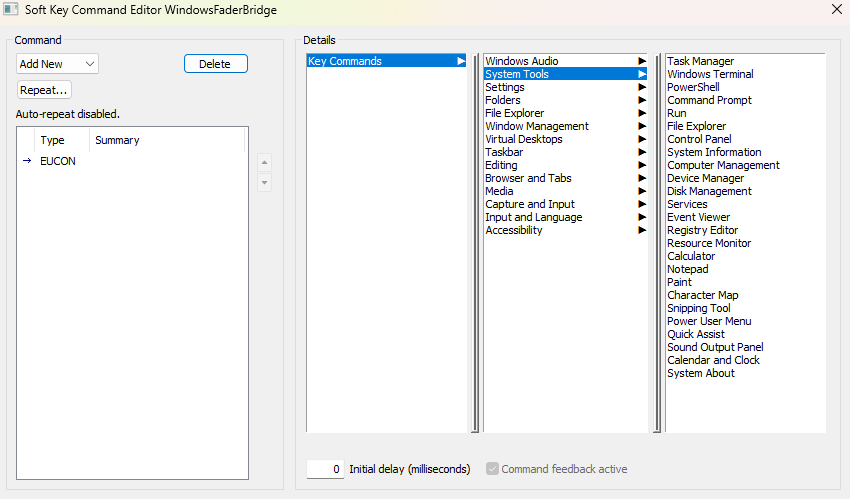
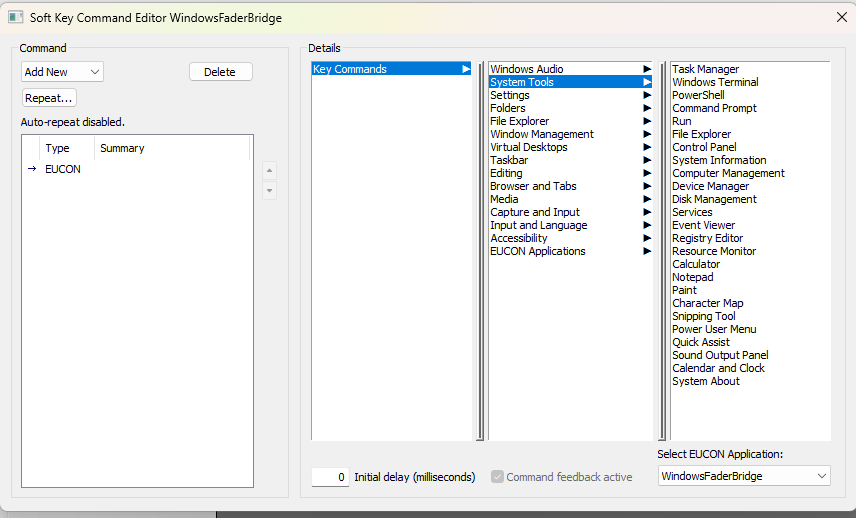
docs: add trilingual landing page and current screenshots

Changed region(s): [[0.3365, 0.0601, 0.9788, 0.9319], [0.0, 0.0, 1.0, 1.0], [0.2141, 0.1202, 0.3059, 0.1503]]

diff --git a/README.md b/README.md
@@ -2,26 +2,45 @@
 
 # Windows Fader Bridge for EUCON
 
-Control the Windows audio mixer from an Avid EUCON surface or Avid Control.
+<p align="center"><a href="#简体中文">简体中文</a> ・ <a href="#english">English</a> ・ <a href="#日本語">日本語</a></p>
 
-**[Download v1.0.0](https://github.com/lindelea/windows-fader-bridge-eucon/releases/latest)**
+<p align="center"><strong><a href="https://github.com/lindelea/windows-fader-bridge-eucon/releases/latest">下载 / Download / ダウンロード v1.0.0</a></strong></p>
 
-No build tools are required. Download the installer and start mixing.
+![Windows Fader Bridge for EUCON overview](docs/images/overview.png)
 
-[简体中文使用手册](docs/USER_GUIDE.zh-CN.md) ・ [English User Guide](docs/USER_GUIDE.en.md) ・ [日本語ユーザーガイド](docs/USER_GUIDE.ja.md)
+## 简体中文
 
-![Application overview](docs/images/overview.png)
+使用 Avid S3、Avid Control 或其他兼容 EUCON 控制台，直接控制 Windows 主音量、输入设备以及每个正在发声的应用。
 
-Use physical faders, encoders and keys for Windows output devices, input devices and individual applications. Volume, pan, mute, solo, channel selection, meters, banking and media information are synchronized in real time.
+- 推子、声像、静音、独奏、峰值表和通道选择实时双向同步。
+- 支持翻页、媒体信息以及 Windows、UAD、DAW 之间的 EUCON 焦点切换。
+- 不需要编译，下载安装程序即可使用。
+- 需要 Windows 11 x64 和 Avid EuControl / EUCON Workstation 2026.4。
 
+**[简体中文完整使用手册](docs/USER_GUIDE.zh-CN.md)**
 
-## Windows audio control for Avid S3 and Avid Control
+## English
 
-- Mix individual Windows applications from a EUCON control surface.
-- Control the Windows master output and input devices.
-- Switch EUCON focus between a DAW, Windows audio, and UAD Console with dedicated commands.
-- Use Avid Control even when no physical EUCON surface is attached.
+Control Windows master volume, input devices, and individual audio applications directly from an Avid S3, Avid Control, or another compatible EUCON surface.
 
-Requirements: Windows 11 x64 and Avid EuControl / EUCON Workstation 2026.4. A compatible EUCON surface or Avid Control is required for control.
+- Real-time bidirectional fader, pan, mute, solo, meter, and channel-selection feedback.
+- Banking, media information, and dedicated EUCON focus switching between Windows, UAD, and a DAW.
+- No build tools required; install and start mixing.
+- Requires Windows 11 x64 and Avid EuControl / EUCON Workstation 2026.4.
 
-This repository is for downloads and user documentation. The corresponding v1.0.0 source is available in the [development project](https://github.com/lindelea/windows-fader-bridge/tree/v1.0.0). Licensed under [MPL 2.0](LICENSE). This independent project is not affiliated with or endorsed by Avid.
+**[Complete English User Guide](docs/USER_GUIDE.en.md)**
+
+## 日本語
+
+Avid S3、Avid Control、または互換 EUCON サーフェスから、Windows のメイン音量、入力デバイス、音声を再生中の各アプリを直接操作します。
+
+- フェーダー、パン、ミュート、ソロ、メーター、チャンネル選択をリアルタイムに双方向同期。
+- バンク、メディア情報、Windows・UAD・DAW 間の EUCON フォーカス切り替えに対応。
+- ビルド不要。インストーラーですぐに利用できます。
+- Windows 11 x64 と Avid EuControl / EUCON Workstation 2026.4 が必要です。
+
+**[日本語の完全なユーザーガイド](docs/USER_GUIDE.ja.md)**
+
+## License and source ・ 许可与源代码 ・ ライセンスとソース
+
+This user-facing repository contains downloads and manuals. The exact v1.0.0 source is in the [development project](https://github.com/lindelea/windows-fader-bridge/tree/v1.0.0). Licensed under [MPL 2.0](LICENSE). This independent project is not affiliated with or endorsed by Avid.

diff --git a/docs/USER_GUIDE.en.md b/docs/USER_GUIDE.en.md
@@ -8,6 +8,8 @@ The app presents the Windows audio mixer as a dedicated EUCON application. Use a
 
 It does not replace EuControl or modify your audio driver. Volume, pan, mute, solo, selection, meters, and motor-fader feedback are synchronized in real time.
 
+![Windows Fader Bridge overview](images/overview.png)
+
 ## Requirements
 
 - Windows 11, 64-bit.
@@ -29,6 +31,10 @@ The project does not currently have a paid Windows code-signing certificate, so 
 2. Start the bridge. It is ready when the overview reports that the controller is connected.
 3. If EUCON is focused on another application, bring this window forward once or press `Ctrl+Alt+Shift+W`.
 4. For regular switching between Cubase, Windows audio, and UAD Console, assign the bridge's **Windows EUCON** and **UAD EUCON** commands to EuControl Soft Keys.
+
+![Confirm the application in EuControl](images/eucontrol-applications.png)
+
+![Assign bridge-switching commands to EuControl Soft Keys](images/eucontrol-commands.png)
 
 Startup order is not critical. If Windows Audio or EUCON is not ready during sign-in, the bridge waits and reconnects automatically.
 

diff --git a/docs/USER_GUIDE.zh-CN.md b/docs/USER_GUIDE.zh-CN.md
@@ -8,6 +8,8 @@
 
 它不会替代 EuControl，也不会改变声卡驱动。音量、声像、静音、独奏、选择、峰值表和电机推子反馈会实时同步。
 
+![Windows Fader Bridge 总览页](images/overview.png)
+
 ## 使用前准备
 
 - Windows 11 64 位。
@@ -29,6 +31,10 @@
 2. 启动本程序。主界面显示“控制器已连接”后即可使用。
 3. 如果 EuControl 当前在控制其他软件，把本程序窗口调到前台一次，或按 `Ctrl+Alt+Shift+W`，EUCON 焦点就会切到本程序。
 4. 需要经常在 Cubase、Windows 音频和 UAD Console 之间切换时，可在 EuControl 的 Soft Keys 中选择本应用提供的 **Windows EUCON**、**UAD EUCON** 等命令，再分配到实体键。
+
+![在 EuControl 中确认应用](images/eucontrol-applications.png)
+
+![把桥接切换命令分配到 EuControl Soft Key](images/eucontrol-commands.png)
 
 程序与 Windows 音频服务、EUCON 的启动顺序不再是硬性要求；开机时服务尚未准备好，程序会自动等待并重连。
 
